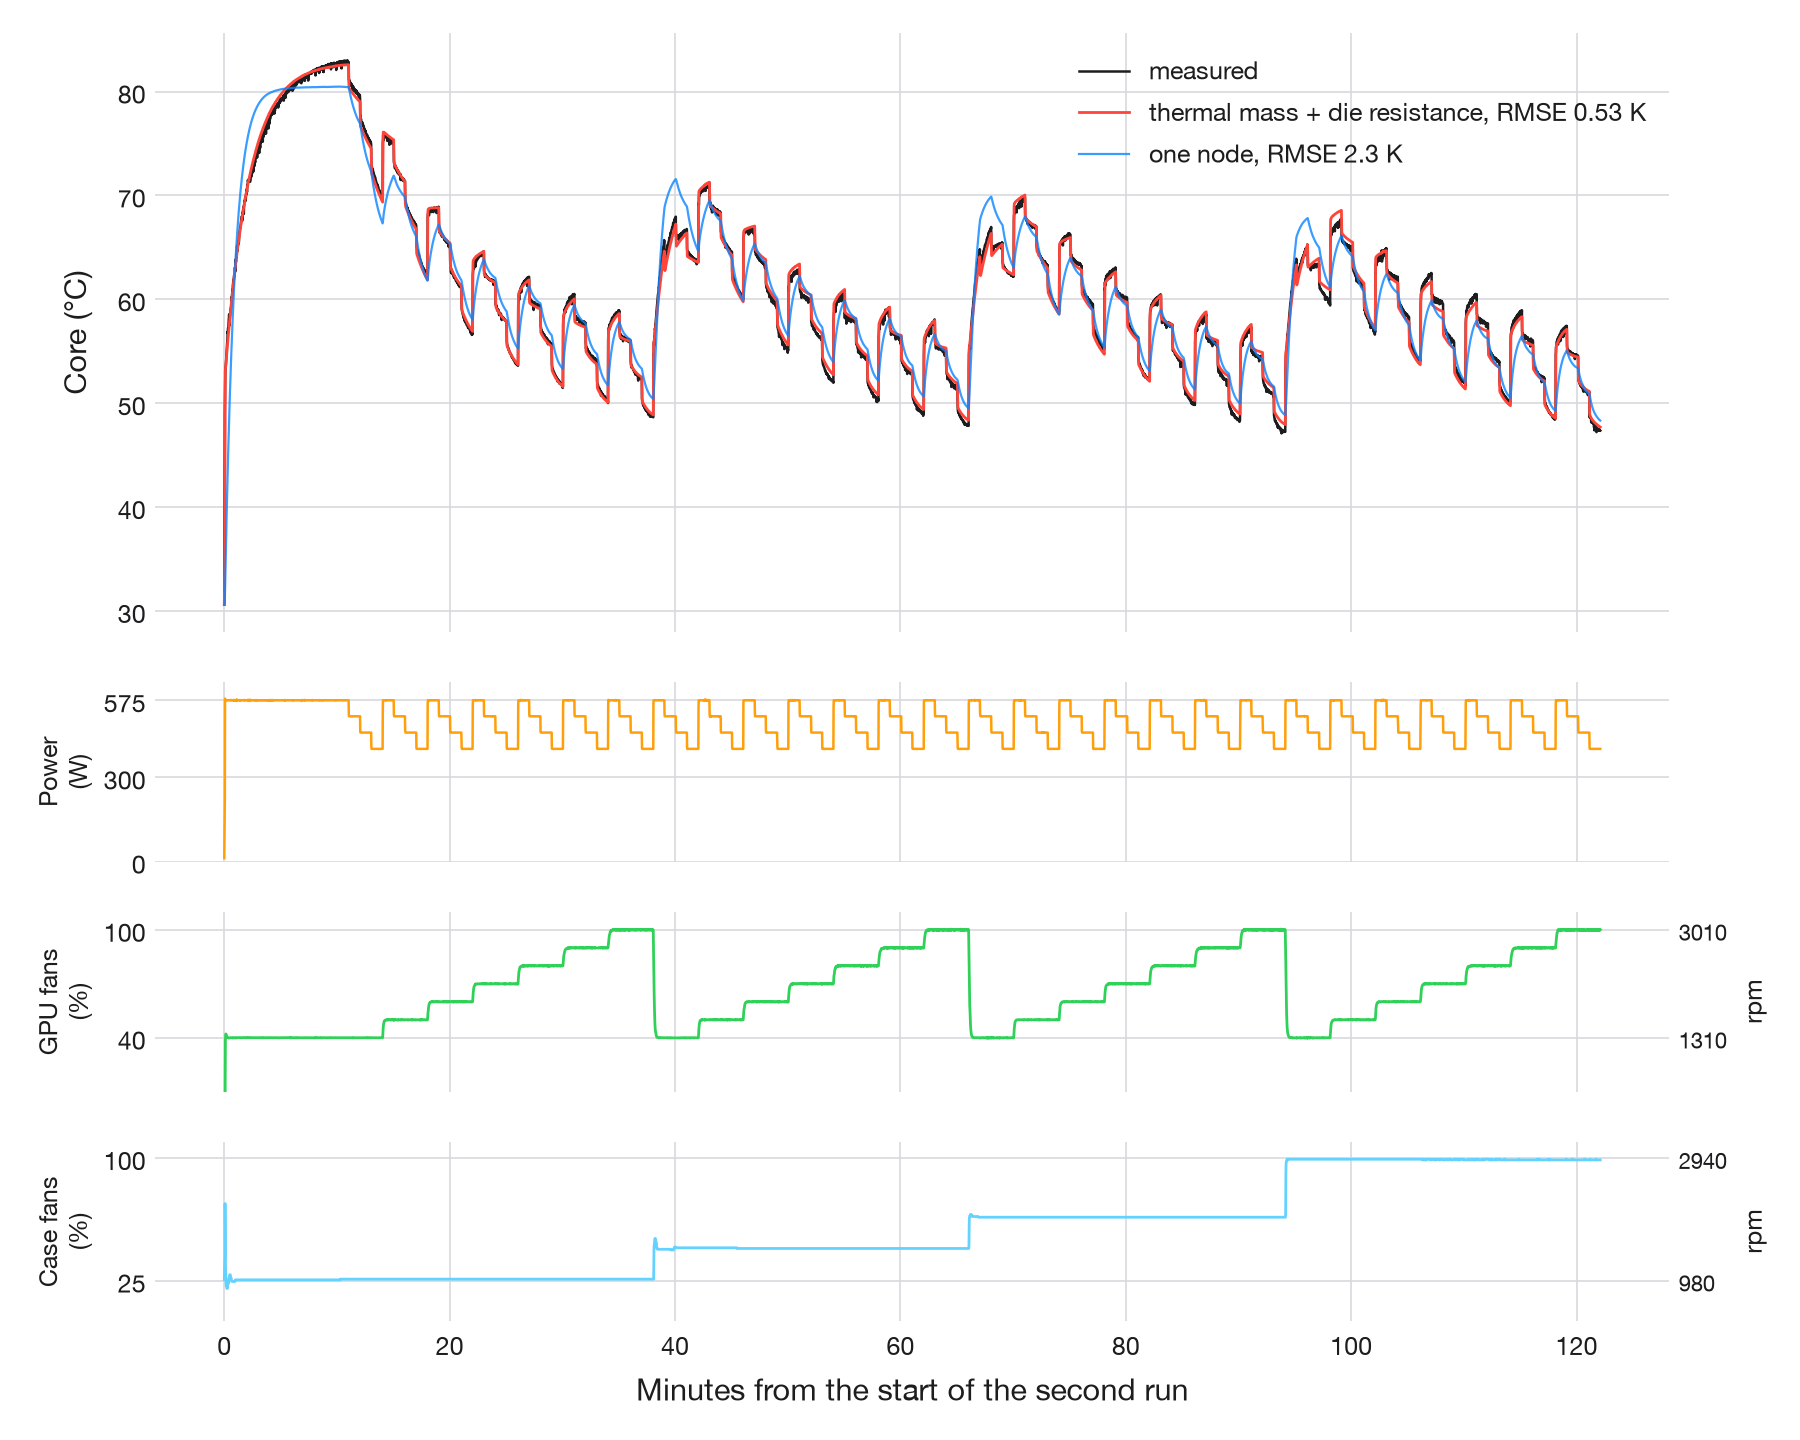
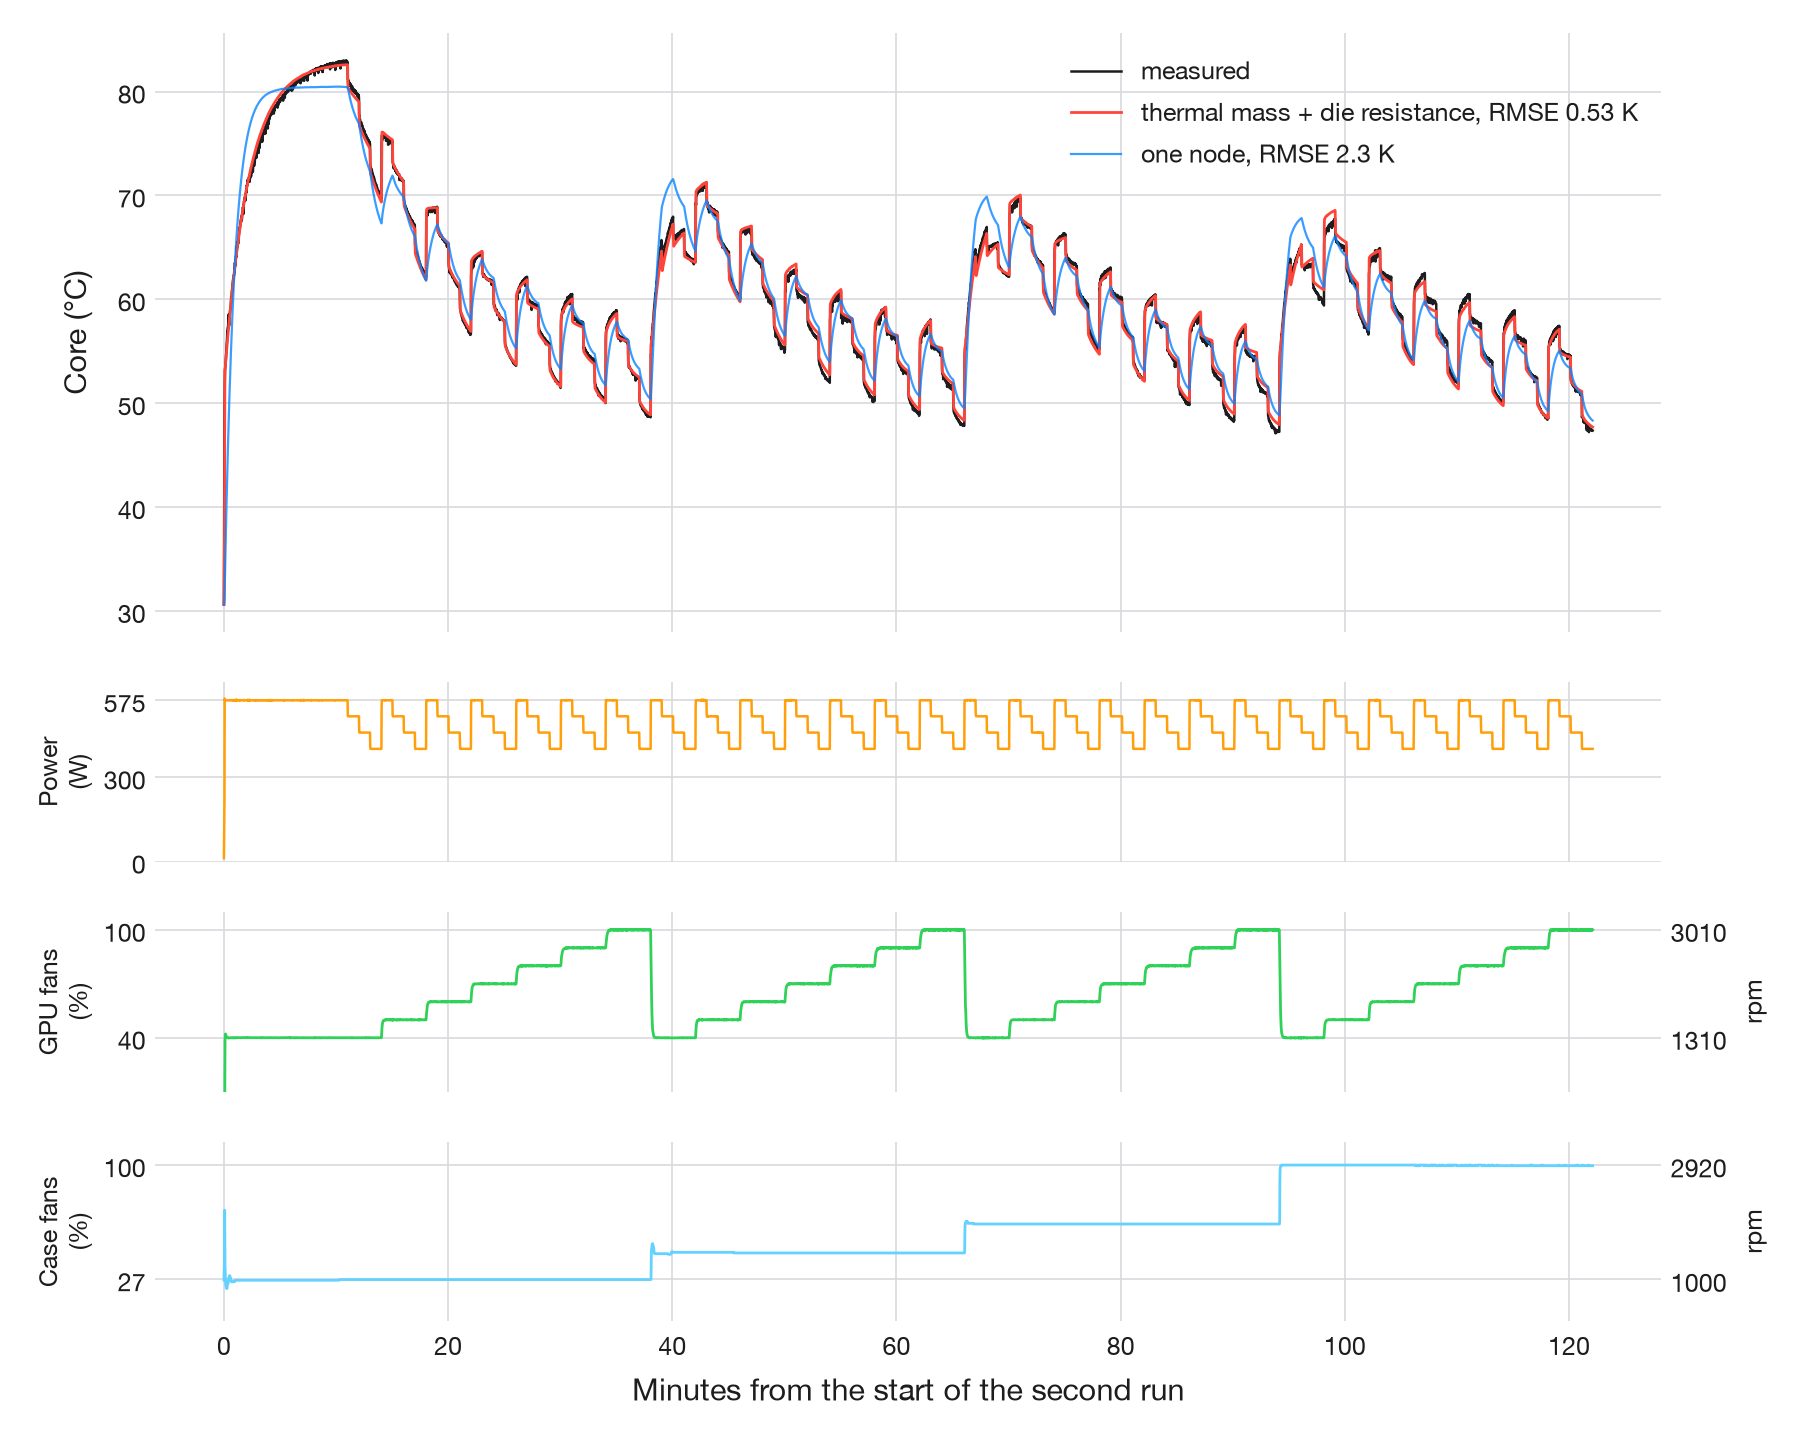
Dynamic-model article figures: case-fan axis 27/100 % = 1000/2920 rpm, larger phone type

diff --git a/scripts/fig_dyn.py b/scripts/fig_dyn.py
@@ -21,8 +21,11 @@ tests = [dm.load("log-1"), dm.load("grid1d"), dm.load("hold"), dm.load("night-v2
 LABEL = {"log-1": "Manual series", "grid1d": "Repeat of the 40 % points", "hold": "Morning series", "night-v2d": "First-run night grid"}
 gpct = lambda r: (np.asarray(r) - 1313) / (3012 - 1313) * 60 + 40
 grpm = lambda q: (np.asarray(q) - 40) / 60 * (3012 - 1313) + 1313
-cpct = lambda r: (np.asarray(r) - 330.4) / 26.13          # case controller duty ↔ rpm, linear fit on the second run
-crpm = lambda q: np.asarray(q) * 26.13 + 330.4
+_CR, _CP = [1007.0, 1500.0, 1999.0, 2923.0], [26.8, 43.9, 62.4, 100.0]   # second-run case levels: measured rpm ↔ controller %
+def _lin(xs, ys):
+    k_ = (ys[-1] - ys[0]) / (xs[-1] - xs[0])
+    return lambda v: np.interp(v, xs, ys) + (np.asarray(v) - np.clip(v, xs[0], xs[-1])) * k_
+cpct, crpm = _lin(_CR, _CP), _lin(_CP, _CR)
 THEMES = {"light": dict(bg="#ffffff", fg="#1d1d1f", grid="#d9d9de", dim="#86868b", meas="#1d1d1f"),
           "dark": dict(bg="#141414", fg="#f5f5f7", grid="#3a3a3c", dim="#98989d", meas="#f5f5f7")}
 RED, BLUE, PURPLE, GREEN, ORANGE, TEAL = "#ff453a", "#0a84ff", "#bf5af2", "#30d158", "#ff9f0a", "#64d2ff"
@@ -36,16 +39,16 @@ def style(ax, th, fs):
 def save(fig, th, name):
     fig.savefig(out / f"{name}.png", dpi=200, facecolor=th["bg"]); plt.close(fig)
     im = Image.open(out / f"{name}.png").convert("RGB"); im.save(out / f"{name}.webp", "WEBP", quality=86, method=6); print(name, im.size)
-def fanstrip(ax, th, fs, tm, v, col, name, to_pct, to_rpm, ticks_pct, lim):
+def fanstrip(ax, th, fs, tm, v, col, name, to_pct, to_rpm, ticks_pct, lim, ticks_rpm=None):
     ax.plot(tm, to_pct(v), color=col, lw=1.0); ax.set_ylim(*lim); ax.set_yticks(ticks_pct); ax.set_ylabel(f"{name}\n(%)", fontsize=fs - 2)
-    r = ax.secondary_yaxis("right", functions=(to_rpm, to_pct)); r.set_yticks([round(float(to_rpm(t)), -1) for t in ticks_pct])
-    r.set_ylabel("rpm", color=th["fg"], fontsize=fs - 2); r.tick_params(colors=th["fg"], labelsize=fs - 3, length=0)
+    r = ax.secondary_yaxis("right", functions=(to_rpm, to_pct)); r.set_yticks(ticks_rpm or [round(float(to_rpm(t)), -1) for t in ticks_pct])
+    r.set_ylabel("rpm", color=th["fg"], fontsize=fs - 2); r.tick_params(colors=th["fg"], labelsize=fs - 2, length=0)
     for sp in r.spines.values(): sp.set_visible(False)
 def inputs(axs, th, fs, D, tm):
     a, b, c = axs
     a.plot(tm, D["P"], color=ORANGE, lw=0.9); a.set_ylabel("Power\n(W)", fontsize=fs - 2); a.set_ylim(0, 640); a.set_yticks([0, 300, 575])
     fanstrip(b, th, fs, tm, D["N"], GREEN, "GPU fans", gpct, grpm, [40, 100], (10, 110))
-    fanstrip(c, th, fs, tm, D["C"], TEAL, "Case fans", cpct, crpm, [25, 100], (0, 110))
+    fanstrip(c, th, fs, tm, D["C"], TEAL, "Case fans", cpct, crpm, [27, 100], (0, 115), [1000, 2920])
     for x in (a, b): x.tick_params(labelbottom=False)
 def rc(phone): plt.rcParams.update({"font.family": "sans-serif", "font.sans-serif": ["Helvetica Neue", "Arial", "DejaVu Sans"], "font.size": 13 if phone else 11})
 
@@ -65,11 +68,11 @@ def figA(theme, phone):
 
 TP = [(D, *dm.core_pred(p2, D, 2)) for D in tests]
 def figB(theme, phone):
-    th = THEMES[theme]; fs = 13 if phone else 11; rc(phone)
-    fig = plt.figure(figsize=(5, 25) if phone else (11, 11.5)); fig.patch.set_facecolor(th["bg"])
+    th = THEMES[theme]; fs = 17 if phone else 11; rc(phone); plt.rcParams["font.size"] = fs
+    fig = plt.figure(figsize=(5, 30) if phone else (11, 11.5)); fig.patch.set_facecolor(th["bg"])
     gs = GridSpec(4, 1, figure=fig, hspace=0.32) if phone else GridSpec(2, 2, figure=fig, hspace=0.3, wspace=0.32)
     for i, (D, yc, X) in enumerate(TP):
-        sub = GridSpecFromSubplotSpec(4, 1, subplot_spec=gs[i], height_ratios=[3, 0.8, 0.8, 0.8], hspace=0.12)
+        sub = GridSpecFromSubplotSpec(4, 1, subplot_spec=gs[i], height_ratios=[3, 1.0, 1.0, 1.0] if phone else [3, 0.8, 0.8, 0.8], hspace=0.14)
         ax = fig.add_subplot(sub[0]); ins = [fig.add_subplot(sub[j], sharex=ax) for j in (1, 2, 3)]
         for a in [ax, *ins]: style(a, th, fs)
         tm = D["t"] / 60; ym = dm.mem_sim(pm, D, X)
@@ -82,7 +85,7 @@ def figB(theme, phone):
     h = [plt.Line2D([], [], c=th["meas"], lw=1.4), plt.Line2D([], [], c=RED, lw=1.4), plt.Line2D([], [], c=th["dim"], lw=1.4), plt.Line2D([], [], c=PURPLE, lw=1.4)]
     l = ["core, measured", "core, model", "memory, measured", "memory, model"]
     fig.legend(h, l, loc="lower center", ncol=2 if phone else 4, fontsize=fs - 2, frameon=False, labelcolor=th["fg"])
-    fig.subplots_adjust(left=0.16 if phone else 0.08, right=0.84 if phone else 0.93, top=0.98 if phone else 0.96, bottom=0.05 if phone else 0.08)
+    fig.subplots_adjust(left=0.2 if phone else 0.08, right=0.8 if phone else 0.93, top=0.975 if phone else 0.96, bottom=0.06 if phone else 0.08)
     save(fig, th, f"gpu-map-2026-10-21-dyn-test{'-phone' if phone else ''}-{theme}")
 for t in THEMES:
     for ph in (False, True): figA(t, ph); figB(t, ph)
